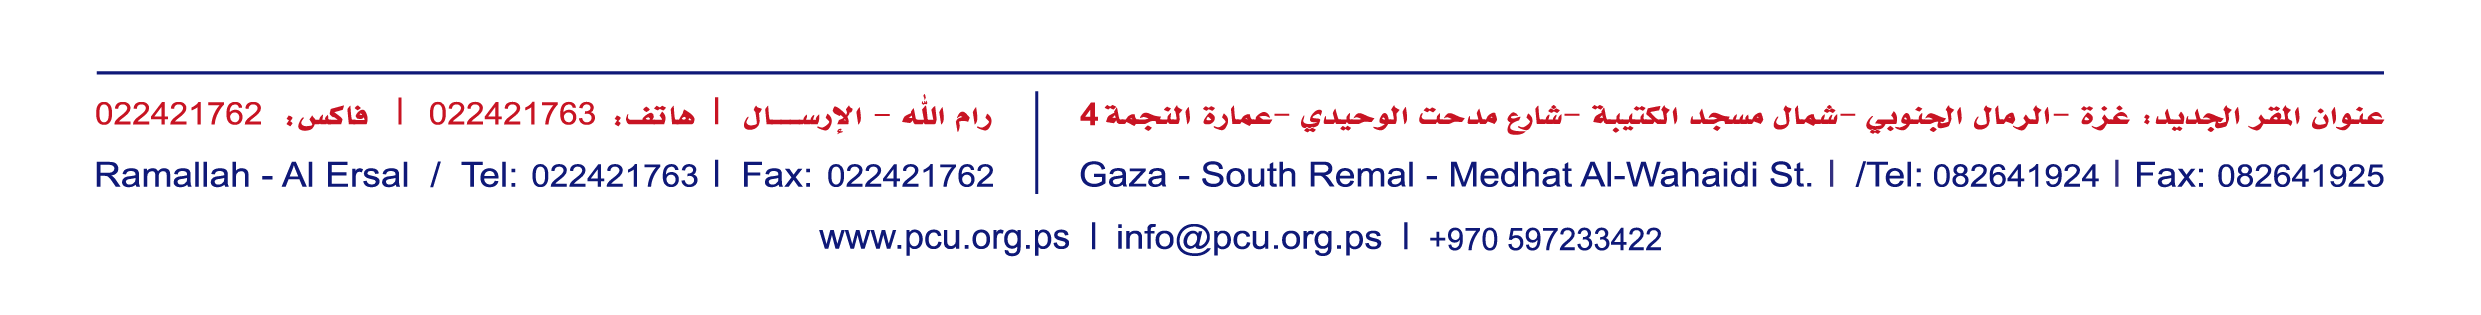
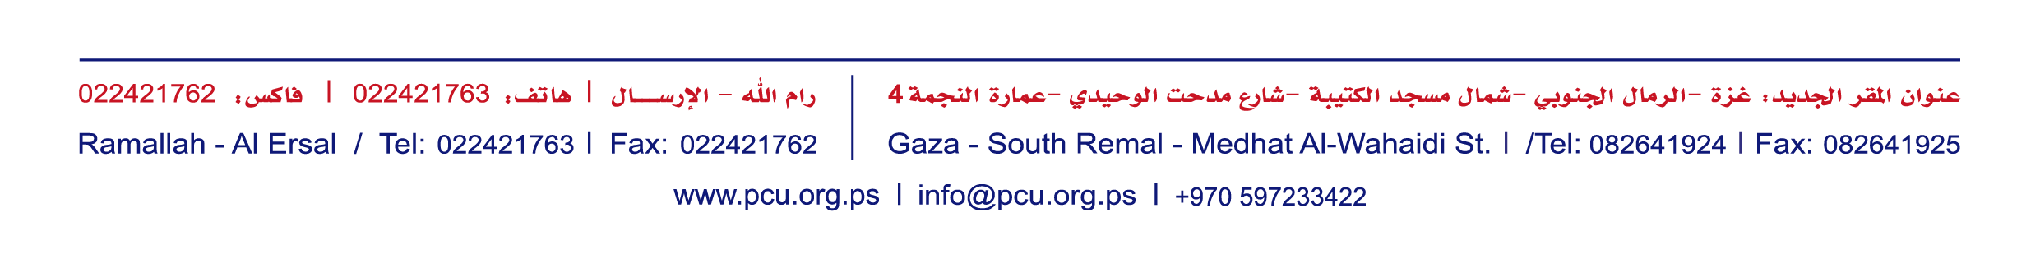
feat(certificates): print the membership certificate on the new union letterhead
Header, footer and faded-logo watermark come from the new "ترويسة الاتحاد"
Word template and span the full page width. The serial and issue date are
written over the header's own الرقم/التاريخ dotted lines. The printed seal
is gone; the signature block leaves blank space under the president's name
for a hand signature and stamp.

diff --git a/arab-contractors-union-api/app/Services/MembershipCertificatePdfService.php b/arab-contractors-union-api/app/Services/MembershipCertificatePdfService.php
@@ -17,18 +17,18 @@ use Mpdf\Mpdf;
  *   قياساً: 68 م.ب و11 ثانية مقابل 293 م.ب و24 ثانية لكل شهادة.
  *
  * الترويسة الرسمية:
- *   الأصول الثلاثة مستخرَجة من نفس قالب Word المعتمد (resources/certificate-assets)،
- *   فتبقى الهوية البصرية مطابقة للمصدر. تُركَّب عبر SetHTMLHeader/SetHTMLFooter
- *   لا عبر SetWatermarkImage — لأن الترويسة شريط نسبته 4:1 والتذييل 6.5:1، وتمطيط
- *   أيّهما ليملأ صفحة A4 يشوّه الشعار. الهوامش تحجز لهما المساحة.
+ *   الأصول الثلاثة مستخرَجة من قالب "ترويسة الاتحاد" الجديد (resources/certificate-assets).
+ *   الترويسة والتذييل بعرض الورقة كاملاً (210mm، بلا هوامش) كما في قالب Word، فتُرسم
+ *   كعناصر position:fixed لا عبر SetHTMLHeader/Footer اللذين يحصرانها داخل الهوامش.
+ *   الشعار الباهت بالخلفية علامة مائية بنفس مقاسه في القالب.
  *
  * ملاحظة: التوليد يستغرق ثوانيَ عدة، فلا يجوز استدعاؤه داخل طلب HTTP متزامن.
  */
 class MembershipCertificatePdfService
 {
-    /** ارتفاع الترويسة والتذييل بالمليمتر — مشتق من نسبة أبعاد الصورتين على عرض A4 المطبوع (180mm) */
-    private const HEADER_HEIGHT_MM = 45;
-    private const FOOTER_HEIGHT_MM = 28;
+    /** ارتفاع الترويسة والتذييل بالمليمتر — نسبة أبعاد الصورتين (1241×286 و2040×259) على عرض 210mm */
+    private const HEADER_HEIGHT_MM = 48.4;
+    private const FOOTER_HEIGHT_MM = 26.7;
 
     /**
      * @param  bool  $preview  يكتب في certificates/preview بدل مسار الشهادة الرسمي.
@@ -112,9 +112,12 @@ class MembershipCertificatePdfService
         $presidentTitle2 = \App\Models\Setting::get('union_president_title2', 'النائب الأول لرئيس الاتحاد');
 
         $assets   = resource_path('certificate-assets');
-        $headerImg = $assets . DIRECTORY_SEPARATOR . 'letterhead-header.jpg';
-        $footerImg = $assets . DIRECTORY_SEPARATOR . 'letterhead-footer.png';
-        $sealImg   = $assets . DIRECTORY_SEPARATOR . 'union-seal.jpg';
+        $headerImg    = $assets . DIRECTORY_SEPARATOR . 'letterhead-header.png';
+        $footerImg    = $assets . DIRECTORY_SEPARATOR . 'letterhead-footer.png';
+        $watermarkImg = $assets . DIRECTORY_SEPARATOR . 'letterhead-watermark.png';
+        $headerH      = self::HEADER_HEIGHT_MM;
+        $footerH      = self::FOOTER_HEIGHT_MM;
+        $footerTop    = 297 - $footerH;
 
         $companyLabelEsc  = e($companyLabel);
         $addressEsc       = e($address);
@@ -134,10 +137,6 @@ class MembershipCertificatePdfService
         $html = <<<HTML
 <style>
   body { font-family: calibri; direction: rtl; color: #000; font-size: 17pt; }
-  .meta { text-align: right; margin: 0 0 2pt 0; font-family: calibri; line-height: 1.3; }
-  /* "الرقم:" و"التاريخ:" أحمر 10، والقيمة مقابلهما أزرق غامق سميك 11 */
-  .meta-label { color: #D80F18; font-size: 10pt; }
-  .meta-value { color: #002060; font-size: 11pt; font-weight: bold; }
   .title {
     font-family: ptboldheading; text-align: center;
     font-size: 26pt; font-weight: bold; margin: 2pt 0 10pt 0;
@@ -159,14 +158,15 @@ class MembershipCertificatePdfService
   table.data-table th { background-color: #8C8C8C; }
   table.data-table td { font-family: arial; }
   .validity { font-size: 16pt; font-weight: bold; margin-top: 10pt; line-height: 1.4; }
-  /* عرض أضيق ومتوسّط يقرّب الختم من نص التوقيع بدل تباعدهما على طرفي الصفحة */
-  .sign-block { width: 74%; margin: 6pt auto 0 auto; }
-  .sign-block td { vertical-align: middle; }
-  .sign-text { text-align: center; font-size: 13pt; font-weight: bold; line-height: 1.35; }
-  .seal-cell { text-align: center; }
+  /* كتلة التوقيع على يسار الصفحة: الاسم والصفتان، وتحتها فراغ للتوقيع اليدوي والختم */
+  .sign-block { width: 100%; margin: 8pt 0 0 0; }
+  .sign-text { text-align: center; font-weight: bold; line-height: 1.35; }
+  .sign-name { color: #2E3192; font-size: 15pt; }
+  .sign-title1 { font-size: 14pt; }
+  .sign-title2 { font-size: 11pt; }
+  .sign-space { height: 24mm; }
 </style>
 
-<div class="meta"><span class="meta-label">الرقـم:</span> <span class="meta-value" dir="ltr">{$serial}</span><br><span class="meta-label">التاريخ:</span> <span class="meta-value">{$issuedAt}</span></div>
 
 <div class="title">شهادة عضـــــــــوية</div>
 
@@ -190,16 +190,15 @@ class MembershipCertificatePdfService
   هذه الشهادة سارية المفعول حتى تاريخ {$validUntil}م وبعدها تعتبر لاغيه.
 </div>
 
-<!-- في جدول RTL أول خلية تُرسم يميناً: الختم يميناً ونص التوقيع شماله -->
-<table class="sign-block" autosize="1">
+<!-- في جدول RTL أول خلية تُرسم يميناً: الخلية الفارغة يميناً والتوقيع شمالها -->
+<table class="sign-block" width="100%" autosize="1">
   <tr>
-    <td width="50%" class="seal-cell">
-      <img src="{$sealImg}" width="195" height="151">
-    </td>
+    <td width="50%"></td>
     <td width="50%" class="sign-text">
-      {$presidentName}<br>
-      {$presidentTitle1}<br>
-      {$presidentTitle2}
+      <span class="sign-name">{$presidentName}</span><br>
+      <span class="sign-title1">{$presidentTitle1}</span><br>
+      <span class="sign-title2">{$presidentTitle2}</span>
+      <div class="sign-space"></div>
     </td>
   </tr>
 </table>
@@ -209,9 +208,6 @@ HTML;
         if (! is_dir($tempDir)) {
             mkdir($tempDir, 0775, true);
         }
-
-        $headerH = self::HEADER_HEIGHT_MM;
-        $footerH = self::FOOTER_HEIGHT_MM;
 
         // خطوط القالب المعتمد نفسها، مشحونة من resources/certificate-assets/fonts
         // لتُطابق الشهادة الأصل بصرياً على أي سيرفر بلا خطوط نظام.
@@ -226,14 +222,9 @@ HTML;
             'orientation'   => 'P',
             'margin_left'   => 15,
             'margin_right'  => 15,
-            // الهامش العلوي/السفلي يبدأ بعد الترويسة/التذييل، وmargin_header/footer
-            // يحدّدان بعدهما عن حافة الورقة
-            // margin_header(8) + headerH هو أدنى حد؛ أقل منه يدوس المتن صورة الترويسة.
-            // +2 هامش أمان لأن صندوق أول سطر يبدأ قبل حدّ الهامش بكسر نقطة.
-            'margin_top'    => $headerH + 10,
-            'margin_bottom' => $footerH + 8,
-            'margin_header' => 8,
-            'margin_footer' => 8,
+            // الترويسة والتذييل ملتصقان بحافة الورقة؛ الهامشان يحجزان مساحتهما للمتن
+            'margin_top'    => $headerH + 4,
+            'margin_bottom' => $footerH + 2,
             'tempDir'       => $tempDir,
 
             'fontDir'  => array_merge($defaultConfig['fontDir'], [$assets . DIRECTORY_SEPARATOR . 'fonts']),
@@ -253,12 +244,33 @@ HTML;
         $mpdf->autoScriptToLang = false;
         $mpdf->autoLangToFont   = false;
 
-        // الترويسة والتذييل الرسميان — مستخرَجان من قالب Word المعتمد، بعرض كامل
-        // ونسبة أبعاد محفوظة (لا تمطيط)
-        $mpdf->SetHTMLHeader('<img src="' . $headerImg . '" style="width:100%;">');
-        $mpdf->SetHTMLFooter('<img src="' . $footerImg . '" style="width:100%;">');
+        // الشعار الباهت بوسط الصفحة خلف المتن، بمقاسه في قالب Word (123×100mm).
+        // الصورة باهتة أصلاً، فلا شفافية إضافية.
+        $mpdf->SetWatermarkImage($watermarkImg, 1, [123, 100], 'P');
+        $mpdf->showWatermarkImage = true;
+        $mpdf->watermarkImgBehind = true;
 
         $mpdf->WriteHTML($html);
+
+        // الترويسة والتذييل بعرض الورقة كاملاً تُرسم بإحداثيات مطلقة بعد المتن — الهوامش تبقيه
+        // بعيداً عنهما. position:fixed لا يُحترم هنا، وSetHTMLHeader/Footer يحصرانهما داخل
+        // الهوامش، وAddPage قبل WriteHTML يدفع المتن لصفحة ثانية.
+        // التذييل يقع تحت الهامش السفلي، فبدون إيقاف القفز التلقائي يفتح صفحة ثانية فارغة.
+        $mpdf->SetAutoPageBreak(false);
+        // constrain=false: بدونه mPDF يصغّر الصورة لعرض المتن (180mm) بدل عرض الورقة
+        $mpdf->Image($headerImg, 0, 0, 210, $headerH, '', '', true, false);
+        $mpdf->Image($footerImg, 0, $footerTop, 210, $footerH, '', '', true, false);
+
+        // الترويسة تطبع "الرقم: ....." و"التاريخ: ....." بنفسها؛ القيمة تُكتب فوق النقاط
+        // بخلفية بيضاء تغطيها. المواضع مقيسة من بكسلات النقاط بصورة الترويسة (× 210/1241):
+        // نقاط الرقم 27–44.5mm، نقاط التاريخ 155.7–173mm، وكلاهما على ارتفاع 39.6–42mm.
+        $mpdf->SetFillColor(255, 255, 255);
+        $mpdf->SetTextColor(0, 32, 96);
+        $mpdf->SetFont('calibri', 'B', 10);
+        $mpdf->SetXY(26.5, 38);
+        $mpdf->Cell(18.5, 5.5, $serial, 0, 0, 'C', true);
+        $mpdf->SetXY(155, 38);
+        $mpdf->Cell(18.5, 5.5, $issuedAt, 0, 0, 'C', true);
 
         // قفل تعديل/نسخ المحتوى بكلمة سر مالك — بدون كلمة سر مستخدم، فالملف يُفتح ويُطبع بحرية
         $mpdf->SetProtection(['print', 'copy'], '', config('app.certificate_pdf_owner_password'));

diff --git a/arab-contractors-union-api/resources/certificate-assets/README.md b/arab-contractors-union-api/resources/certificate-assets/README.md
@@ -4,14 +4,16 @@
 
 ## الصور
 
-مستخرَجة من قالب Word المعتمد `resources/templates/membership_certificate.docx`
-(من `word/media/`)، فتبقى مطابقة للمصدر الرسمي:
+مستخرَجة من قالب Word "ترويسة الاتحاد" (من `word/media/`)، المعتمد بتاريخ 2026-11-03،
+فتبقى مطابقة للمصدر الرسمي:
 
 | الملف | الأصل | الأبعاد | الموضع |
 |---|---|---|---|
-| `letterhead-header.jpg` | `image2.jpeg` | 2481×621 | ترويسة الصفحة |
-| `letterhead-footer.png` | `image3.png` | 2481×381 | تذييل الصفحة |
-| `union-seal.jpg` | `image1.jpeg` | 479×477 | بجانب التوقيع |
+| `letterhead-header.png` | `image1.png` | 1241×286 | ترويسة بعرض الورقة كاملاً، تحوي "الرقم/التاريخ" |
+| `letterhead-footer.png` | `image3.png` | 2040×259 | تذييل بعرض الورقة كاملاً |
+| `letterhead-watermark.png` | `image2.png` | 562×456 | شعار باهت بوسط الصفحة (123×100mm) |
+
+لا ختم مطبوع: كتلة التوقيع تترك تحت اسم النقيب فراغاً للتوقيع والختم اليدويين.
 
 ## الخطوط
 
